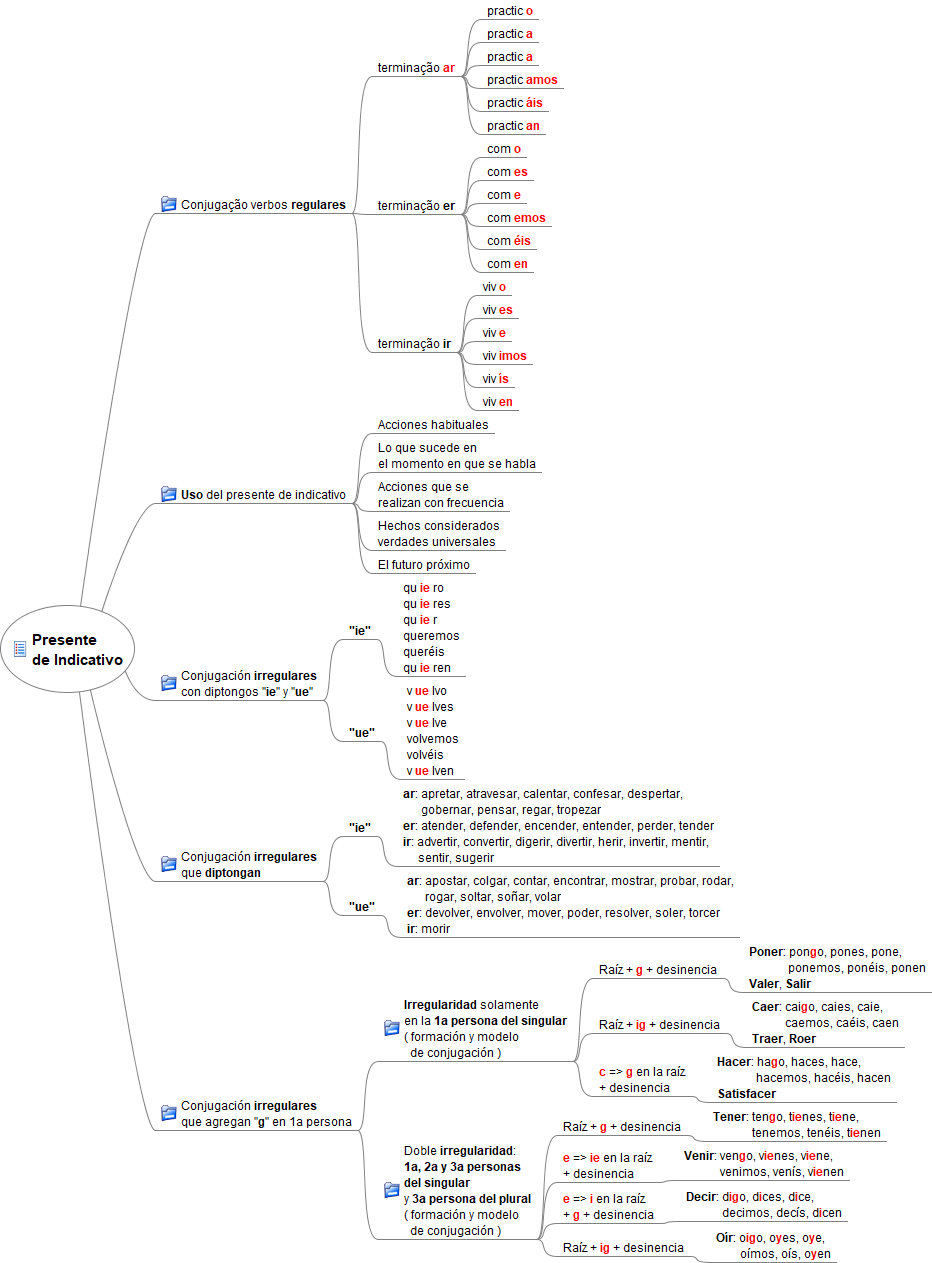
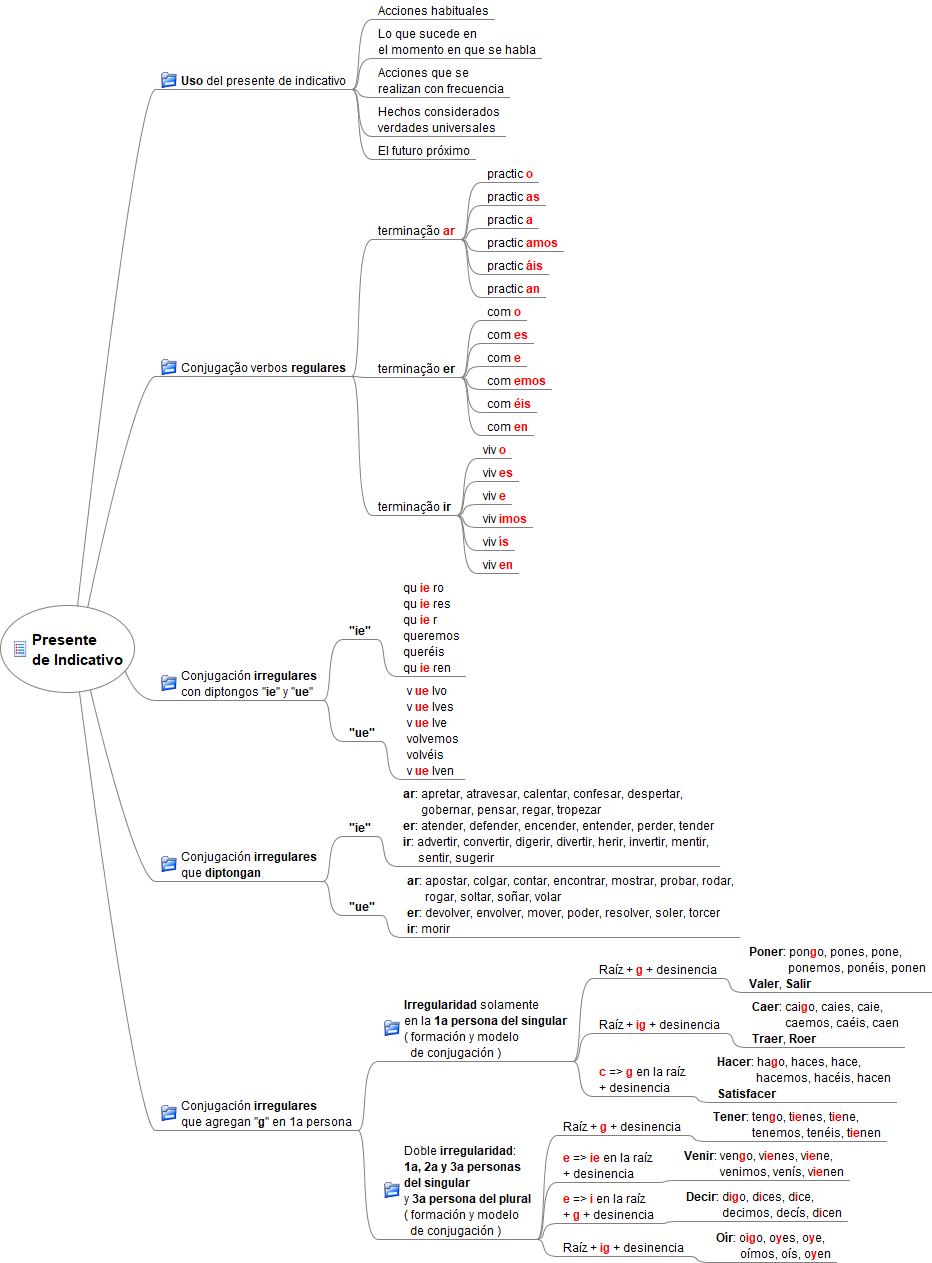
.

diff --git a/assets/mindmaps/Presente Indicativo.mm b/assets/mindmaps/Presente Indicativo.mm
@@ -16,6 +16,66 @@
 </html></richcontent>
 <font BOLD="true" NAME="SansSerif" SIZE="15"/>
 <icon BUILTIN="list"/>
+<node CREATED="1546381266909" ID="ID_55656418" MODIFIED="1546541669351" POSITION="right">
+<richcontent TYPE="NODE"><html>
+  <head>
+    
+  </head>
+  <body>
+    <p>
+      <b>Uso</b>&#160;del presente de indicativo
+    </p>
+  </body>
+</html></richcontent>
+<icon BUILTIN="folder"/>
+<node CREATED="1546542072433" ID="ID_804310955" MODIFIED="1546542073527" TEXT="Acciones habituales"/>
+<node CREATED="1546542074414" ID="ID_302446442" MODIFIED="1546542349987">
+<richcontent TYPE="NODE"><html>
+  <head>
+    
+  </head>
+  <body>
+    <p>
+      Lo que sucede en
+    </p>
+    <p>
+      el momento en que se habla
+    </p>
+  </body>
+</html></richcontent>
+</node>
+<node CREATED="1546542090035" ID="ID_679501869" MODIFIED="1546542360038">
+<richcontent TYPE="NODE"><html>
+  <head>
+    
+  </head>
+  <body>
+    <p>
+      Acciones que se
+    </p>
+    <p>
+      realizan con frecuencia
+    </p>
+  </body>
+</html></richcontent>
+</node>
+<node CREATED="1546542094772" ID="ID_887494364" MODIFIED="1546542365109">
+<richcontent TYPE="NODE"><html>
+  <head>
+    
+  </head>
+  <body>
+    <p>
+      Hechos considerados
+    </p>
+    <p>
+      verdades universales
+    </p>
+  </body>
+</html></richcontent>
+</node>
+<node CREATED="1546542103826" ID="ID_1673472481" MODIFIED="1546542104842" TEXT="El futuro pr&#xf3;ximo"/>
+</node>
 <node CREATED="1546381264311" ID="ID_1674431836" MODIFIED="1546541669351" POSITION="right">
 <richcontent TYPE="NODE"><html>
   <head>
@@ -52,17 +112,18 @@
   </body>
 </html></richcontent>
 </node>
-<node CREATED="1546541747665" ID="ID_1397479753" MODIFIED="1546541867715">
+<node CREATED="1546541747665" ID="ID_1397479753" MODIFIED="1546548107468">
 <richcontent TYPE="NODE"><html>
   <head>
     
   </head>
   <body>
     <p>
-      practic <b><font color="#ff0000">a</font></b>
+      practic <b><font color="#ff0000">as</font></b>
     </p>
   </body>
-</html></richcontent>
+</html>
+</richcontent>
 </node>
 <node CREATED="1546541753489" ID="ID_452317711" MODIFIED="1546541855396">
 <richcontent TYPE="NODE"><html>
@@ -284,66 +345,6 @@
 <font NAME="SansSerif" SIZE="12"/>
 </node>
 </node>
-</node>
-<node CREATED="1546381266909" ID="ID_55656418" MODIFIED="1546541669351" POSITION="right">
-<richcontent TYPE="NODE"><html>
-  <head>
-    
-  </head>
-  <body>
-    <p>
-      <b>Uso</b>&#160;del presente de indicativo
-    </p>
-  </body>
-</html></richcontent>
-<icon BUILTIN="folder"/>
-<node CREATED="1546542072433" ID="ID_804310955" MODIFIED="1546542073527" TEXT="Acciones habituales"/>
-<node CREATED="1546542074414" ID="ID_302446442" MODIFIED="1546542349987">
-<richcontent TYPE="NODE"><html>
-  <head>
-    
-  </head>
-  <body>
-    <p>
-      Lo que sucede en
-    </p>
-    <p>
-      el momento en que se habla
-    </p>
-  </body>
-</html></richcontent>
-</node>
-<node CREATED="1546542090035" ID="ID_679501869" MODIFIED="1546542360038">
-<richcontent TYPE="NODE"><html>
-  <head>
-    
-  </head>
-  <body>
-    <p>
-      Acciones que se
-    </p>
-    <p>
-      realizan con frecuencia
-    </p>
-  </body>
-</html></richcontent>
-</node>
-<node CREATED="1546542094772" ID="ID_887494364" MODIFIED="1546542365109">
-<richcontent TYPE="NODE"><html>
-  <head>
-    
-  </head>
-  <body>
-    <p>
-      Hechos considerados
-    </p>
-    <p>
-      verdades universales
-    </p>
-  </body>
-</html></richcontent>
-</node>
-<node CREATED="1546542103826" ID="ID_1673472481" MODIFIED="1546542104842" TEXT="El futuro pr&#xf3;ximo"/>
 </node>
 <node CREATED="1546541046630" ID="ID_700131416" MODIFIED="1546542888467" POSITION="right">
 <richcontent TYPE="NODE"><html>
